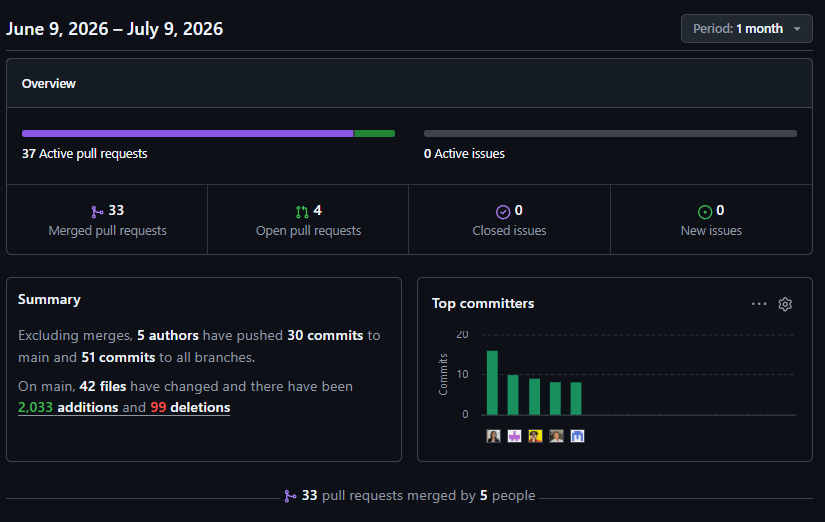
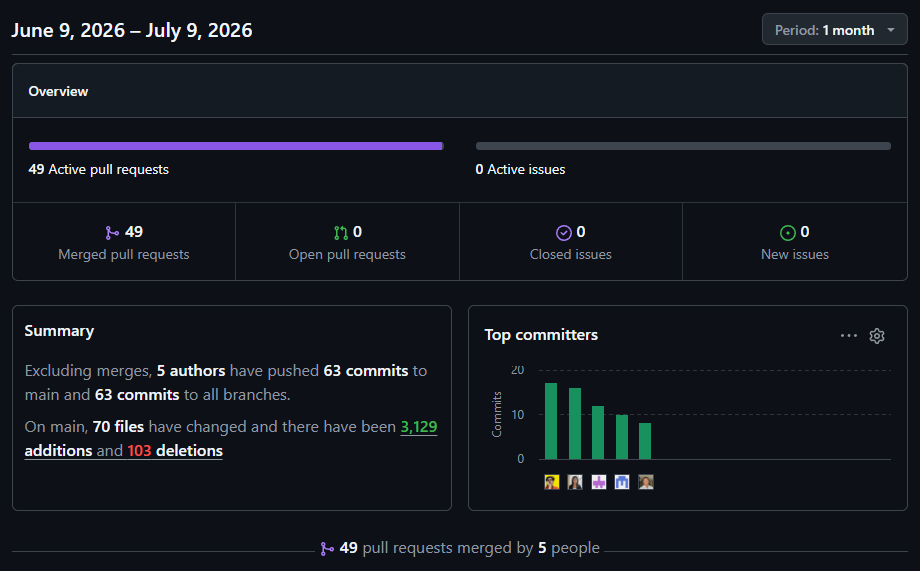
Refactor code structure for improved readability and maintainability

diff --git a/11-annexes.md b/11-annexes.md
@@ -105,6 +105,8 @@ Se detalla la funcionalidad del ecosistema de productos de Restock, contemplando
 
 Se adjunta el video de validacion del proyecto que se realizo con los 2 apartados, administrado y proovedor para validar el funcionamiento en distintos aparatos.
 
-![Validation](assets/images/annexes/validation.png)
+![Validation](assets/images/annexes/app-validation.jpeg)
 
-https://www.youtube.com/watch?v=FGF7uwXhxbc
+* **Enlace (YouTube):** [https://www.youtube.com/watch?v=FGF7uwXhxbc](https://www.youtube.com/watch?v=FGF7uwXhxbc)
+* **Enlace (Microsoft Stream):** [https://shorturl.at/1PkOk](https://shorturl.at/1PkOk)
+  

diff --git a/10-conclusions.md b/10-conclusions.md
@@ -51,7 +51,7 @@ El desarrollo del proyecto Final ayudo a todo el equipo en mejorar varios aparta
 
 ### Video App Validation
 
-> *Incluir en esta sección el resumen del proceso de validación mediante Firebase App Distribution, los dispositivos utilizados, los usuarios participantes y el enlace al video de demostración.*
+![App Validation - Thumbnail](assets/images/videos/app-validation.png)
 
 | Campo | Detalle |
 |---|---|
@@ -66,7 +66,7 @@ El desarrollo del proyecto Final ayudo a todo el equipo en mejorar varios aparta
 
 ### Video About-The-Team
 
-> *Incluir en esta sección el resumen del proceso de trabajo del equipo, los testimonios de cada integrante y el enlace al video.*
+![About the Team - Thumbnail](assets/images/videos/about-the-team.png)
 
 | Campo | Detalle |
 |---|---|
@@ -86,7 +86,5 @@ El desarrollo del proyecto Final ayudo a todo el equipo en mejorar varios aparta
 | Testimonio — Ivan Fernando Sanchez Guevara | 00:05:18 |
 | Testimonio — Gabriela Nicole Shapiama Rivera | 00:07:00 |
 | Cierre y reflexión grupal | 00:08:15 |
-
----
 
 

diff --git a/README.md b/README.md
@@ -37,7 +37,7 @@
 
 ### u202319448 - Shapiama Rivera, Gabriela Nicole
 
-### Junio 2026
+### Julio 2026
 
 </div>
 